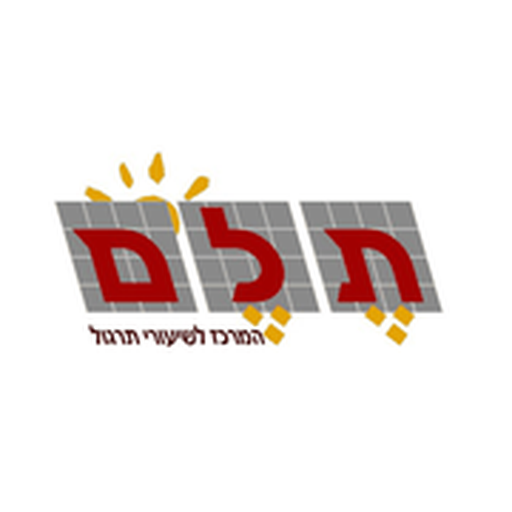
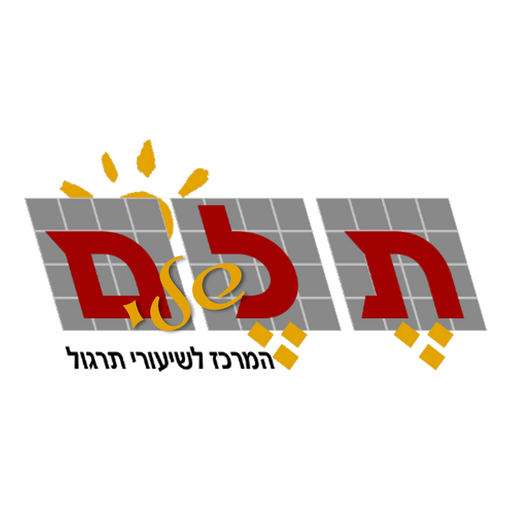
1.34: תלמידים – עמודות למשולבים ושני כפתורי סיום; ממתינים – 'שלי' ולשוניות; אייקון מהלוגו החדש
Claude-Session: https://claude.ai/code/session_01TZTHUbT2s24wRwNSu5Chp7

Changed region(s): [[0.0312, 0.25, 0.9688, 0.7188]]

diff --git a/index.html b/index.html
@@ -433,8 +433,29 @@
   .bk-ask{ margin:0 0 8px; padding:10px 12px; border-radius:14px; background:color-mix(in srgb, var(--warn, #c98a00) 14%, var(--paper)); border:1px solid color-mix(in srgb, var(--warn, #c98a00) 45%, var(--border)); }
   .bk-ask-t{ font-weight:700; font-size:14.5px; line-height:1.4; margin-bottom:8px; }
   .bk-ask-b{ display:flex; gap:8px; flex-wrap:wrap; }
-  .idle-box{ margin-top:22px; } .idle-box > summary{ cursor:pointer; font-weight:700; color:var(--ink-soft); padding:6px 2px; }
-  .idle-box[open] > summary{ margin-bottom:10px; }
+  .wt-seg{ display:grid; grid-template-columns:1fr 1fr; margin:0 0 14px; } .wt-seg.three{ grid-template-columns:1fr 1fr 1fr; } .wt-seg button{ font-size:15px; line-height:1.25; padding:4px; } .wt-seg.three button{ font-size:13.5px; } .wt-seg b.g{ background:var(--ink-soft); } .wt-seg b{ display:inline-block; min-width:22px; margin-inline-start:4px; border-radius:999px; background:var(--gold); color:#fff; font-size:13px; padding:0 6px; }
+  .st-cols{ display:grid; grid-template-columns:1fr 1fr; gap:10px; align-items:start; }
+  .stc{ min-width:0; display:flex; flex-direction:column; gap:8px; }
+  .stc-h{ text-align:center; }
+  .stc-empty{ text-align:center; font-size:14px; padding:10px 4px; }
+  .stc-n{ text-align:center; font-size:13px; }
+  .stc .rq-b{ font-size:14px; padding:11px 8px; line-height:1.3; }
+  .stc .rq-on{ flex-direction:column; align-items:flex-start; gap:4px; font-size:13.5px; padding:9px 10px; }
+  .now-card.sm{ margin-bottom:0; border-radius:14px; }
+  .now-card.sm .now-img{ height:110px; }
+  .now-card.sm .now-tx{ padding:8px 10px 10px; display:flex; flex-direction:column; gap:4px; }
+  .now-card.sm .t{ font-size:15px; line-height:1.3; }
+  .now-card.sm .kick{ font-size:12px; }
+  .now-card.sm .s{ font-size:12px; color:var(--ink-soft); }
+  .now-card.sm .btn{ margin-top:4px; justify-content:center; }
+  .dr.sm{ gap:8px; padding:6px 8px; margin-bottom:0; align-items:center; }
+  .dr.sm .mi{ width:38px; height:48px; border-radius:5px; }
+  .dr.sm .nm b{ font-size:14px; }
+  .dr.sm .kick{ font-size:11.5px; }
+  .dr.sm .dd2{ display:block; font-size:12px; color:var(--ok); font-weight:700; margin-top:2px; }
+  .g-bar .g-done2{ display:flex; gap:8px; flex:1; min-width:0; }
+  .g-bar .g-done2 .btn{ flex:1; min-width:0; white-space:normal; line-height:1.25; padding:10px 8px; font-size:14.5px; }
+  .g-bar .g-done2 #gNextReq{ flex:1.5; }
   .rq-bar{ display:grid; grid-template-columns:1fr; gap:8px; margin:0 0 16px; align-items:stretch; }
   .rq-bar.two{ grid-template-columns:1fr 1fr; }
   .rq-bar.two .rq-b{ font-size:14.5px; padding:11px 8px; line-height:1.3; }
@@ -2070,7 +2091,7 @@ body[data-att] .toast, body:has(#attListV) .toast{ bottom:auto; top:calc(12px + 
 // הגדרות
 // ======================================================================
 const CONFIG = {
-  version: "1.33.3",                                               // גרסת האפליקציה – עולה בכל גרסה חדשה
+  version: "1.34",                                               // גרסת האפליקציה – עולה בכל גרסה חדשה
   supabaseUrl: "https://oulivucqbpmbavbavfvy.supabase.co",
   anonKey: "sb_publishable_M8wEF2-9fXMmX0U97nfENw_AfZw9wNz",   // מפתח ציבורי - מותר שיהיה גלוי (ההרשאות נבדקות בשרת)
   appUrl: "https://telem-tirgul.github.io/telem-sheli/",           // הכתובת של האפליקציה (לשליחה לתלמידים)
@@ -2504,6 +2525,7 @@ async function loadStudentPages(quiet){
 function renderStudent(){
   const subs = ST.me.subjects || [];
   const seg = $("stSeg");
+  if (subs.length > 1) return renderStudentCols(subs);   // 1.34 (נועה): משולב/ת – מתמטיקה ואנגלית בעמודות, בלי לשוניות
   if (subs.length > 1) {
     seg.hidden = false;
     seg.innerHTML = subs.map(s => { const n = new Set(ST.pages.filter(p => p.subject === s && p.status === "נשלח").map(p => stTaskKey(p) || "p" + p.item_id)).size;   // 1.29: סופרים משימות
@@ -2561,6 +2583,47 @@ function renderStudent(){
   $("stBody").querySelectorAll("[data-dv]").forEach(b => b.onclick = () => { store("telem_portal_done_view", b.dataset.dv); renderStudent(); });
   $("stBody").querySelectorAll("details.dt").forEach(d => d.ontoggle = () => { d.open ? ST.openT.add(d.dataset.k) : ST.openT.delete(d.dataset.k); });
 }
+// 1.34 (נועה): תלמיד/ה משולב/ת – שתי עמודות (מתמטיקה מימין, אנגלית משמאל): בכל עמודה "שלחו לי", "לעבודה עכשיו" ו"סיימתי"
+function renderStudentCols(subs){
+  $("stSeg").hidden = true;
+  const kick = (p) => { const no = p.topic_no ? String(Number(p.topic_no) || p.topic_no) : ""; return [no ? "נושא " + no : "", p.topic_name || ""].filter(Boolean).join(" · "); };
+  const all = ST.pages || [];
+  const openAll = all.filter(p => p.status === "נשלח"), doneAll = all.filter(p => p.status === "הושלם");
+  ST.openList = openAll.filter(p => !stTaskKey(p)); ST.doneList = doneAll.slice().sort((a, b) => String(b.done_at || "").localeCompare(String(a.done_at || "")));
+  const tasks = new Map(); openAll.forEach(p => { const k = stTaskKey(p); if (k) { if (!tasks.has(k)) tasks.set(k, []); tasks.get(k).push(p); } });
+  tasks.forEach(L => L.sort((a, b) => (a.sort_order || 0) - (b.sort_order || 0))); ST.tasks = tasks;
+  const col = (x) => {
+    const open = openAll.filter(p => p.subject === x), done = doneAll.filter(p => p.subject === x);
+    const seenT = new Set(), cards = open.filter(p => { const k = stTaskKey(p); if (!k) return true; if (seenT.has(k)) return false; seenT.add(k); return true; });
+    let h = `<div class="stc-h"><span class="subj-chip ${subjCls(x)} on">${esc(x)}</span></div>`;
+    if (ST.req && !open.length) h += ST.req.has(x)
+      ? `<div class="rq-on"><span>✓ ביקשת משימה – היא כבר בדרך</span><button type="button" class="lnk" data-rqc="${esc(x)}">ביטול</button></div>`
+      : `<button type="button" class="btn primary block rq-b" data-rq="${esc(x)}">📨 שלחו לי משימה ב${esc(x)}</button>`;
+    h += cards.map(p0 => { const k = stTaskKey(p0), T = k ? tasks.get(k) : null, p = T ? T[0] : p0, isNew = T ? T.some(y => y.is_new) : p.is_new;
+      return `<button class="now-card sm${T ? " task" : ""} ${isNew ? "is-new" : ""}" ${T ? `data-task="${esc(k)}"` : `data-i="${p.item_id}"`}>
+        <span class="now-img" style="background-image:url('${esc(ST.url(p.storage_path))}')">${isNew ? `<span class="chip new">חדש</span>` : ""}${T ? `<span class="chip task-n">📎 ${T.length}</span>` : ""}</span>
+        <span class="now-tx">${kick(p) ? `<span class="kick">${esc(kick(p))}</span>` : ""}<span class="t">${T ? `משימה: <bdi>${esc(p.sub || p.title)}</bdi>` : esc(p.title)}</span>
+          <span class="s">נשלח ${esc(ago(p.released_at))}</span><span class="btn primary sm block">לפתיחה ←</span></span></button>`; }).join("");
+    if (!open.length && !ST.req) h += `<div class="stc-empty muted">${done.length ? "סיימת הכול 👏" : "עוד אין משימות"}</div>`;
+    return { open: h, done };
+  };
+  const C = subs.map(col);
+  let h = `<h2 class="st-h"><span class="hl">לעבודה עכשיו</span></h2><div class="st-cols">${C.map(c => `<div class="stc">${c.open}</div>`).join("")}</div>`;
+  if (doneAll.length) {
+    const n = new Set(doneAll.map(p => stTaskKey(p) || "p" + p.item_id)).size;
+    h += `<div class="st-sum"><h2 class="st-h"><span class="hl">סיימתי</span></h2><span class="muted">${n === 1 ? "סיימת משימה אחת" : "סיימת " + n + " משימות"} – כל הכבוד!</span></div>`;
+    h += `<div class="st-cols">` + C.map((c, i) => { const d = stTaskColl(c.done).sort((a, b) => String(b.done_at || "").localeCompare(String(a.done_at || "")));
+      return `<div class="stc">${d.length ? `<div class="stc-n muted">${d.length === 1 ? "משימה אחת" : d.length + " משימות"}</div>` : `<div class="stc-empty muted">עוד לא</div>`}` +
+        d.map(p => `<button class="dr sm" data-i="${p.item_id}"><span class="mi" style="background-image:url('${esc(ST.url(p.storage_path))}')"></span>
+          <span class="nm">${kick(p) ? `<span class="kick">${esc(kick(p))}</span>` : ""}<b>${p._tn > 1 ? `📎 <bdi>${esc(p.sub || p.title)}</bdi>` : esc(p.title)}</b><span class="dd2">✓ ${esc(fmtDay(p.done_at))}</span></span></button>`).join("") + `</div>`; }).join("") + `</div>`;
+  }
+  paint($("stBody"), h);
+  const B = $("stBody");
+  B.querySelectorAll("[data-i]").forEach(b => b.onclick = () => openStudentPage(Number(b.dataset.i)));
+  B.querySelectorAll("[data-task]").forEach(b => b.onclick = () => { const T = (ST.tasks || new Map()).get(b.dataset.task); if (T && T.length) openGallery(T, T[0].item_id, false, true); });
+  B.querySelectorAll("[data-rq]").forEach(b => b.onclick = () => { b.disabled = true; requestNext(b.dataset.rq, true); });
+  B.querySelectorAll("[data-rqc]").forEach(b => b.onclick = () => requestNext(b.dataset.rqc, false));
+}
 // 1.33 (נועה): "שלחו לי את המשימה הבאה" – לכל מקצוע שאין בו משימה פתוחה (משולב/ת – כפתור לכל מקצוע)
 const stOpenIn = (subj) => (ST.pages || []).some(p => p.subject === subj && p.status === "נשלח");
 function reqBar(subs){
@@ -2572,8 +2635,9 @@ function reqBar(subs){
     ? `<div class="rq-on"><span>✓ ביקשת ${two ? "משימה ב" + esc(x) : "את המשימה הבאה"} – היא כבר בדרך</span><button type="button" class="lnk" data-rqc="${esc(x)}">ביטול</button></div>`
     : `<button type="button" class="btn primary block rq-b" data-rq="${esc(x)}">📨 שלחו לי ${two ? "משימה ב" + esc(x) : "את המשימה הבאה"}</button>`).join("") + `</div>`;
 }
-async function requestNext(subj, on){
+async function requestNext(subj, on, quiet){
   try { const r = await rpc("portal_request_next", { p_subject: subj, p_on: on });
+    if (quiet) { if (r && r.ok !== false && ST.req) ST.req.add(subj); renderStudent(); return; }
     if (r && r.ok === false) { toast(r.reason === "open" ? "קודם מסיימים את המשימה הפתוחה 🙂" : "לא הצלחנו לשלוח את הבקשה."); return; }
     if (ST.req) on ? ST.req.add(subj) : ST.req.delete(subj);
     renderStudent(); toast(on ? "✓ ביקשנו! המשימה הבאה תגיע לכאן בקרוב." : "הבקשה בוטלה.");
@@ -2675,6 +2739,9 @@ function openGallery(list, startId, keep, task){
   if (keep) closeViewer(true); else closeViewer();   // keep: מחליפים את הדפדוף במקום (בלי לגעת בהיסטוריה של "חזרה")
   const isOpen = list[0] && list[0].status !== "הושלם", n = list.length;
   const ltr = list.every(p => p.subject === "אנגלית" || p.book === "ENG");   // 1.29 (נועה): באנגלית – משמאל לימין
+  // 1.34 (נועה): ישר שני כפתורים – "סיימתי – שלחו לי את הבאה" / "סיימתי" (כשאין עוד משימה פתוחה באותו מקצוע)
+  const gSubj = list[0] && list[0].subject, ids0 = new Set(list.map(x => x.item_id));
+  const canAsk = isOpen && !!ST.req && (task || n === 1) && !(ST.pages || []).some(x => x.subject === gSubj && x.status === "נשלח" && !ids0.has(x.item_id)) && !ST.req.has(gSubj);
   let cur = Math.max(0, list.findIndex(x => x.item_id === startId)), z = 100;
   const host = $("viewerHost");
   host.innerHTML = `<div class="viewer gal" role="dialog" aria-modal="true">
@@ -2688,7 +2755,7 @@ function openGallery(list, startId, keep, task){
     ${n > 1 ? `<div class="g-dots" aria-hidden="true" dir="${ltr ? "ltr" : "rtl"}">${list.map((_, i) => `<i data-d="${i}"></i>`).join("")}</div>` : ""}
     <div class="vbar g-bar" dir="${ltr ? "ltr" : "rtl"}">
       ${n > 1 ? `<button class="btn ghost g-nav" id="gPrev" aria-label="הדף הקודם">${ltr ? "←" : "→"}</button>` : ""}
-      ${isOpen ? (task ? `<button class="btn ok" id="gTask">${IC.check} סיימתי את המשימה</button>` : `<button class="btn ok" id="gDone">${IC.check} סיימתי את המשימה</button>`) : `<button class="btn ghost" id="gUndo">${IC.undo} עוד לא סיימתי</button>`}
+      ${isOpen ? (canAsk ? `<div class="g-done2"><button class="btn ok" id="gNextReq">📨 סיימתי – שלחו לי את הבאה</button><button class="btn" id="gDoneOnly">${IC.check} סיימתי</button></div>` : task ? `<button class="btn ok" id="gTask">${IC.check} סיימתי את המשימה</button>` : `<button class="btn ok" id="gDone">${IC.check} סיימתי את המשימה</button>`) : `<button class="btn ghost" id="gUndo">${IC.undo} עוד לא סיימתי</button>`}
       ${n > 1 ? `<button class="btn ghost g-nav" id="gNext" aria-label="הדף הבא">${ltr ? "→" : "←"}</button>` : ""}
       <!-- 1.28 (נועה): בלי "סיימתי את כל הדפים" – יבוא "סיימתי את המשימה" כשהמשימות יוגדרו במאגר (של-43) -->
     </div></div>`;
@@ -2725,6 +2792,8 @@ function openGallery(list, startId, keep, task){
   if (V.querySelector("#gPrev")) V.querySelector("#gPrev").onclick = () => go(cur - 1, true);
   if (V.querySelector("#gNext")) V.querySelector("#gNext").onclick = () => go(cur + 1, true);
   if (V.querySelector("#gDone")) V.querySelector("#gDone").onclick = () => galDone(list, cur);
+  if (V.querySelector("#gNextReq")) V.querySelector("#gNextReq").onclick = () => task ? markDoneMany(list, true, true) : galDone(list, cur, true);
+  if (V.querySelector("#gDoneOnly")) V.querySelector("#gDoneOnly").onclick = () => task ? markDoneMany(list, true) : galDone(list, cur);
   if (V.querySelector("#gTask")) V.querySelector("#gTask").onclick = () => markDoneMany(list, true);
   if (V.querySelector("#gUndo")) V.querySelector("#gUndo").onclick = () => markDone(list[cur], false);
   if (V.querySelector("#gAll")) V.querySelector("#gAll").onclick = () => markDoneMany(list);
@@ -2732,27 +2801,30 @@ function openGallery(list, startId, keep, task){
   requestAnimationFrame(() => go(cur, false));
 }
 // "סיימתי את הדף" בתוך הדפדוף: אם נשארו עוד דפים – ממשיכים לדף הבא; אם לא – "כל הכבוד"
-async function galDone(list, i){
+async function galDone(list, i, next){
   const p = list[i];
   try { await rpc("portal_mark_done", { p_item: p.item_id, p_done: true }); } catch(e) { toast(errText(e)); return; }
   p.status = "הושלם"; p.done_at = new Date().toISOString();
   const rest = list.filter(x => x.status === "נשלח");
   renderStudent();
-  if (!rest.length || list.length === 1) { closeViewer(); doneCheer(1, false, p.subject); return; }
+  if (!rest.length || list.length === 1) { closeViewer(); if (next) await requestNext(p.subject, true, true); doneCheer(1, false, p.subject, next); return; }
   toast(`✓ כל הכבוד! ${rest.length === 1 ? "נשארה עוד משימה אחת" : "נשארו עוד " + rest.length + " משימות"}`, 3500);
   const nxt = list.slice(i + 1).find(x => x.status === "נשלח") || rest[0];
   openGallery(rest, nxt.item_id, true);
 }
-async function markDoneMany(list, task){
+async function markDoneMany(list, task, next){
   const todo = list.filter(p => p.status === "נשלח"); if (!todo.length) return;
   const b = VIEWER && (VIEWER.querySelector("#gTask") || VIEWER.querySelector("#gAll")); if (b) { b.disabled = true; b.textContent = "שומר…"; }
   const res = await Promise.allSettled(todo.map(p => rpc("portal_mark_done", { p_item: p.item_id, p_done: true }).then(() => { p.status = "הושלם"; p.done_at = new Date().toISOString(); })));
   const bad = res.filter(r => r.status === "rejected").length;
   closeViewer(); renderStudent();
-  if (bad) toast(`לא הצלחנו לעדכן – לנסות שוב.`); else doneCheer(todo.length, task, todo[0].subject);
+  if (bad) toast(`לא הצלחנו לעדכן – לנסות שוב.`); else { if (next) await requestNext(todo[0].subject, true, true); doneCheer(todo.length, task, todo[0].subject, next); }
 }
-function doneCheer(k, task, subj){
-  openCheer(k > 1 && !task ? `עדכנו שסיימת ${k} משימות.` : "עדכנו שסיימת את המשימה.", subj);
+function doneCheer(k, task, subj, asked){
+  const t = k > 1 && !task ? `עדכנו שסיימת ${k} משימות.` : "עדכנו שסיימת את המשימה.";
+  openSheet(`<div class="empty"><svg viewBox="0 0 24 24" fill="none" stroke="currentColor" stroke-width="1.6" stroke-linecap="round" stroke-linejoin="round"><circle cx="12" cy="12" r="9.5"/><path d="M8 12.3l2.8 2.8L16.3 9.5"/></svg>
+    <h2 style="margin-top:8px">כל הכבוד!</h2><p class="muted">${t} ${asked ? "📨 ביקשנו את המשימה הבאה – היא תגיע לכאן בקרוב." : ST.req ? "" : "המשימה הבאה תגיע לכאן בקרוב."}</p>
+    <button class="btn primary block" onclick="closeSheet()">מעולה</button></div>`);
 }
 async function markDone(p, on){
   try {
@@ -3175,12 +3247,15 @@ function loadMgrs(){
     .catch(() => get("staff", "select=full_name,is_admin").then(r => (r || []).filter(x => x.is_admin)))
     .then(r => { MGRS = new Set(r.map(x => x.full_name)); }).catch(() => {}).finally(() => { loadMgrs.p = null; });
 }
+// 1.34 (נועה): "שלי" = ילד/ה בקבוצה שאני משובץ/ת בה, או שאני שלחתי לו/ה את הדף האחרון.
+//   לא ידוע מי שלח (דפים ישנים): אם יש לו/ה קבוצה עם מנהל/ת – אצלו/ה; אם אין – אצל כל המנהלים (שלא ייפול).
 function alertMine(w){
   const me = AD.myName, uid = myUid(); if (!me && !uid) return true;
-  const pg = presentNow(w.s.student_id), gr = (pg && (AD.groups || []).find(g => g.id === pg)) || doneInGroup(w.s.student_id, w.done_at);
-  if (gr) { const ins = gr.ins || []; if (me && ins.includes(me)) return true;
-    if (!MGRS || ins.some(n => MGRS.has(n))) return false; }   // 1.33.1 (מנ-108, נועה): קבוצה בלי מנהל/ת – כמו מהבית: למי ששחרר/ה (לא ידוע – כולם)
-  const by = w.last && w.last.released_by; return !by || by === uid;
+  const sid = String(w.s.student_id), gs = (AD.groups || []).filter(g => g.kids.has(sid));
+  if (me && gs.some(g => (g.ins || []).includes(me))) return true;
+  const by = w.last && w.last.released_by;
+  if (by) return by === uid;
+  return !gs.some(g => !MGRS || (g.ins || []).some(n => MGRS.has(n)));
 }
 const alertKids = () => { loadMgrs(); return waitingKids(waitingList(true).filter(alertMine)); };
 const waitN = () => alertKids().length;
@@ -3189,9 +3264,9 @@ const wSub = (w) => w.req ? `ביקש/ה ${esc(ago(w.req.requested_at))}${w.last
 // סיימו (אין דף פתוח) ולא ביקשו – לפי סינון המתרגלים (ובסינון קבוצה פעילה – רק ממנה)
 function idleList(){
   const req = new Set((AD.nreq || []).map(r => r.student_id + "|" + r.subject)), out = [], only = AD.waitLive ? idleFilter() : null;
-  AD.students.forEach(s => stMine(s.student_id) && (!only || only.has(String(s.student_id))) && (s.waiting_subjects || []).forEach(subj => { if (req.has(s.student_id + "|" + subj)) return;
+  AD.students.forEach(s => (!only || only.has(String(s.student_id))) && (s.waiting_subjects || []).forEach(subj => { if (req.has(s.student_id + "|" + subj)) return;
     const last = planOf(s.student_id, subj).filter(p => p.done_at).sort((a, b) => b.done_at.localeCompare(a.done_at))[0];
-    out.push({ s, subj, done_at: last ? last.done_at : s.last_done_at, last }); }));
+    const w = { s, subj, done_at: last ? last.done_at : s.last_done_at, last }; if (alertMine(w)) out.push(w); }));   // 1.34: רק "שלי" (בלי התראה)
   return out.sort((a, b) => String(b.done_at || "").localeCompare(String(a.done_at || "")));
 }
 function idleFilter(){ const now = new Date(), want = insWant();
@@ -3201,7 +3276,7 @@ async function renderWait(){
   await loadGroups();
   if (AD.nreq) await Promise.race([presentAllToday(), new Promise(r => setTimeout(r, 400))]);
   let list = waitingList();
-  let fresh = AD.students.filter(s => s.has_account && stMine(s.student_id) && !planOf(s.student_id).some(p => p.status !== "מתוכנן"));
+  let fresh = AD.students.filter(s => s.has_account && (AD.nreq ? alertMine({ s }) : stMine(s.student_id)) && !planOf(s.student_id).some(p => p.status !== "מתוכנן"));
   const noAcc = AD.students.filter(s => !s.has_account && stMine(s.student_id)).length;
   const nexts = [...list.map(w => queueOf(w.s.student_id, w.subj)[0]), ...fresh.map(s => queueOf(s.student_id, (s.subjects || [])[0])[0]), ...AD.plan.filter(p => p.status === "נשלח")].filter(Boolean);
   // 1.26.4: תמונות – מה שכבר שמור מוצג מיד; אם חסר – מציירים שוב כשמגיע (בלי לחכות לרשת)
@@ -3214,28 +3289,38 @@ async function renderWait(){
   const kpi = (v, l, cls) => `<span class="kpi ${cls}"><b>${v}</b> ${l}</span>`;   // שורת דוח – בלי מעבר מסך
   let h = byGroup ? `<div class="page-h"><div style="flex:1;min-width:200px"><h1>נוכחות</h1><p>הקבוצות של היום לפי השעה – סימון נוכחות, מי ממתין/ה ומה הבא בתור.</p></div></div>
 `
-    : `<div class="kpi-row">${kpi(waitingKids(list).length, AD.nreq ? "ביקשו משימה" : "ממתינים לדף", "k-gold", "wait")}${kpi(noAcc, "רשומים בלי חשבון", "", "students", "noacc")}</div>
+    : `<div class="kpi-row">${AD.nreq ? "" : kpi(waitingKids(list).length, "ממתינים לדף", "k-gold", "wait")}${kpi(noAcc, "רשומים בלי חשבון", "", "students", "noacc")}</div>
 `;
   const reqs = myReqs();
   if (reqs.length) h += `<section class="need-box"><div class="need-h">${IC.key}<b>לטיפול: ביקשו קוד חדש (${reqs.length})</b></div><div class="wait-grid">` + reqs.map(r => { const s = stById(r.student_id);
       return `<div class="wcard req"><div class="who">${avatar(s)}<div style="flex:1;min-width:0"><div class="n">${esc(stName(s))}</div><div class="sub">${esc(stMeta(s))}</div>
         <div class="sub">שכח/ה את הקוד · <span class="ltr">${esc(fmtPhone(r.phone))}</span> · ${esc(ago(r.created_at))}</div></div><span class="chip warn">קוד</span></div>
         <div class="acts"><button class="btn primary sm" data-newcode="${esc(r.student_id)}">${IC.wa} שליחת קוד חדש</button><button class="btn sm ghost" data-dismiss="${esc(r.student_id)}">התעלמות</button></div></div>`; }).join("") + `</div></section>`;
+  let liveKids = null;
   if (!byGroup) { h += liveBar(list);
     // 1.31 (נועה): סינון לפי קבוצה פעילה (למשל מתרגל/ת עם כמה קבוצות במקביל)
     const now = new Date(), want = insWant(), live = (AD.groups || []).filter(gr => (isLive(gr, now) || grNowKids(gr, now).size) && (!want || (gr.ins || []).includes(want)));
     if (AD.waitLive && AD.waitLive !== "*" && !live.some(gr => gr.id === AD.waitLive)) AD.waitLive = "";
     if (AD.waitLive && !live.length) AD.waitLive = "";
     if (AD.waitLive) { const gs = AD.waitLive === "*" ? live : live.filter(gr => gr.id === AD.waitLive), kids = new Set(gs.flatMap(gr => [...grNowKids(gr, now)]));
-      list = list.filter(w => kids.has(String(w.s.student_id))); fresh = fresh.filter(s => kids.has(String(s.student_id)));
+      liveKids = kids; list = list.filter(w => kids.has(String(w.s.student_id))); fresh = fresh.filter(s => kids.has(String(s.student_id)));
       h += `<div class="lb-note">מוצגים רק הממתינים מ${AD.waitLive === "*" ? "הקבוצות הפעילות" : "-" + esc(gs[0].loc) + " " + esc(gs[0].time)} (${waitingKids(list).length}) · <button type="button" class="lnk" data-wlive="">הצגת כולם</button></div>`; } }   // 1.18.3 (נועה): בתצוגת קבוצות – בלי הפס; הקבוצה שמתנהלת עכשיו ראשונה ברשימה, אחרי הסינונים (כמו בנוכחות)
+  // 1.34 (נועה): שתי לשוניות נפרדות – "ביקשו משימה" / "סיימו ולא ביקשו" (שלא ייעלמו)
+  let idle = [];
+  if (AD.nreq && !byGroup) { idle = idleList(); const nI = waitingKids(idle).length + fresh.length, tab = ["idle", "oth"].includes(AD.waitTab) ? AD.waitTab : "req";
+    // (נועה): "ביקשו משימה" = רק שלי (מה שמגיע אליי בהתראה); בקשות של מנהלים אחרים – בלשונית נפרדת
+    const mine = waitingList(true).filter(w => alertMine(w) && (!liveKids || liveKids.has(String(w.s.student_id)))), oth = list.filter(w => !alertMine(w));   // "שלי" – בלי קשר לסינון המתרגלים
+    list = tab === "oth" ? oth : mine;
+    h += `<div class="seg wt-seg${oth.length ? " three" : ""}"><button type="button" data-wt="req" class="${tab === "req" ? "on" : ""}">ביקשו ממני <b>${waitingKids(mine).length}</b></button>${oth.length || tab === "oth" ? `<button type="button" data-wt="oth" class="${tab === "oth" ? "on" : ""}">אצל אחרים <b class="g">${waitingKids(oth).length}</b></button>` : ""}<button type="button" data-wt="idle" class="${tab === "idle" ? "on" : ""}">סיימו ולא ביקשו <b class="g">${nI}</b></button></div>`;
+    if (tab === "oth") h += `<div class="lb-note">ביקשו משימה, וההתראה הלכה למנהל/ת אחר/ת (המשובץ/ת בקבוצה או מי ששלח/ה את הדף האחרון).</div>`;
+    if (tab === "idle") { h += idle.length ? `<div class="wait-grid">` + waitingKids(idle).map(k => k.ws.length === 1 ? waitCard(g, k.s, k.ws[0].subj, wSub(k.ws[0]), false, presChip(k.s.student_id)) : waitCard2(g, k)).join("") + `</div>`
+                                           : (fresh.length ? "" : `<div class="card muted">אין כרגע מי שסיים/ה ולא ביקש/ה.</div>`);
+      list = []; } else fresh = []; }
   if (byGroup) h += await waitGroupsHtml(g, list, fresh);
+  else if (AD.nreq && AD.waitTab === "idle") {}
+  else if (AD.nreq && AD.waitTab === "oth" && !list.length) h += `<div class="card muted">אין בקשות אצל מנהלים אחרים.</div>`;
   else if (!list.length) h += `<div class="card empty"><svg viewBox="0 0 24 24" fill="none" stroke="currentColor" stroke-width="1.6" stroke-linecap="round" stroke-linejoin="round"><circle cx="12" cy="12" r="9.5"/><path d="M8 12.3l2.8 2.8L16.3 9.5"/></svg><h2 style="margin-top:8px">אין ממתינים כרגע</h2><p class="muted">${AD.nreq ? "כשתלמיד/ה יבקש/תבקש את המשימה הבאה, הוא/היא יופיע/תופיע כאן." : "כשתלמיד/ה ילחץ/תלחץ \"סיימתי\", הוא/היא יופיע/תופיע כאן."}</p></div>`;
   else h += `<div class="wait-grid">` + waitingKids(list).map(k => k.ws.length === 1 ? waitCard(g, k.s, k.ws[0].subj, wSub(k.ws[0]), true, AD.nreq ? presChip(k.s.student_id) : doneChip(k.s.student_id, k.ws[0].done_at), k.ws[0].req) : waitCard2(g, k)).join("") + `</div>`;
-  // 1.33: סיימו ולא ביקשו – מקופל, כדי שלא ייעלמו
-  if (AD.nreq && !byGroup) { const idle = idleList();
-    if (idle.length) h += `<details class="idle-box"${AD.idleOpen ? " open" : ""}><summary>סיימו ולא ביקשו משימה (${waitingKids(idle).length})</summary><div class="wait-grid">` +
-      idle.map(w => waitCard(g, w.s, w.subj, `סיים/ה "<bdi>${esc(w.last ? ptTitle(w.last) : "")}</bdi>" · ${esc(ago(w.done_at))}`, false, presChip(w.s.student_id))).join("") + `</div></details>`; }
   if (fresh.length && !byGroup) {
     h += `<div class="sec-h" style="margin-top:26px">יש חשבון, עוד לא נשלח אף דף (${fresh.length})</div><div class="wait-grid">`;
     h += fresh.map(s => waitCard(g, s, (s.subjects || [])[0], s.last_seen_at ? "נכנס/ה " + esc(ago(s.last_seen_at)) : "עוד לא נכנס/ה", false)).join("") + `</div>`;
@@ -3250,7 +3335,7 @@ async function renderWait(){
   B.querySelectorAll("[data-zoom]").forEach(t => t.onclick = (e) => { e.stopPropagation(); previewWs(t.dataset.zoom); });
   B.querySelectorAll("[data-ndis]").forEach(b => b.onclick = () => confirmSheet("לסגור את הבקשה בלי לשלוח משימה?", "סגירה", async () => {
     try { await rpc("portal_request_dismiss", { p_id: Number(b.dataset.ndis) }); AD.nreq = (AD.nreq || []).filter(r => String(r.id) !== b.dataset.ndis); renderNav(); renderWait(); toast("הבקשה נסגרה."); } catch(e) { toast(errText(e)); } }));
-  B.querySelectorAll("details.idle-box").forEach(d => d.ontoggle = () => { AD.idleOpen = d.open; });
+  B.querySelectorAll("[data-wt]").forEach(b => b.onclick = () => { AD.waitTab = b.dataset.wt; renderWait(); });
   B.querySelectorAll("[data-wlive]").forEach(b => b.onclick = () => { const v = b.dataset.wlive; AD.waitLive = AD.waitLive === v && v ? "" : v; renderWait(); });
   B.querySelectorAll("[data-wm]").forEach(b => b.onclick = () => { AD.waitMode = b.dataset.wm; store("telem_portal_waitmode", AD.waitMode); renderWait(); });
   B.querySelectorAll("[data-wcity]").forEach(b => b.onclick = () => { AD.waitCity = b.dataset.wcity; store("telem_portal_waitcity", AD.waitCity); renderWait(); });

diff --git a/sw.js b/sw.js
@@ -3,7 +3,7 @@
 //  - קבצי האפליקציה – קודם מהשמור (נפתח מיד), ובמקביל בודקים ברשת. גרסה חדשה מגיעה עם sw חדש (CACHE חדש) → רענון אוטומטי.
 //  - תמונות הדפים (Supabase Storage, קישור חתום) – קודם מהשמור; בלי אינטרנט / בפעם השנייה – מיד. עד ~600 תמונות.
 //  - הנתונים עצמם (רשימות, תוכנית, נוכחות) – תמיד מהשרת, לא נשמרים כאן.
-const CACHE = "telem-portal-1.33.3";   // לשנות יחד עם הגרסה ב-index.html
+const CACHE = "telem-portal-1.34";   // לשנות יחד עם הגרסה ב-index.html
 const IMG = "telem-img-v1";          // תמונות הדפים – לא נמחק בכל גרסה
 const IMG_MAX = 600;
 const SHELL = ["./", "index.html", "manifest.webmanifest", "logo.png", "favicon.png", "apple-touch-icon.png", "icon-192.png", "icon-512.png"];
